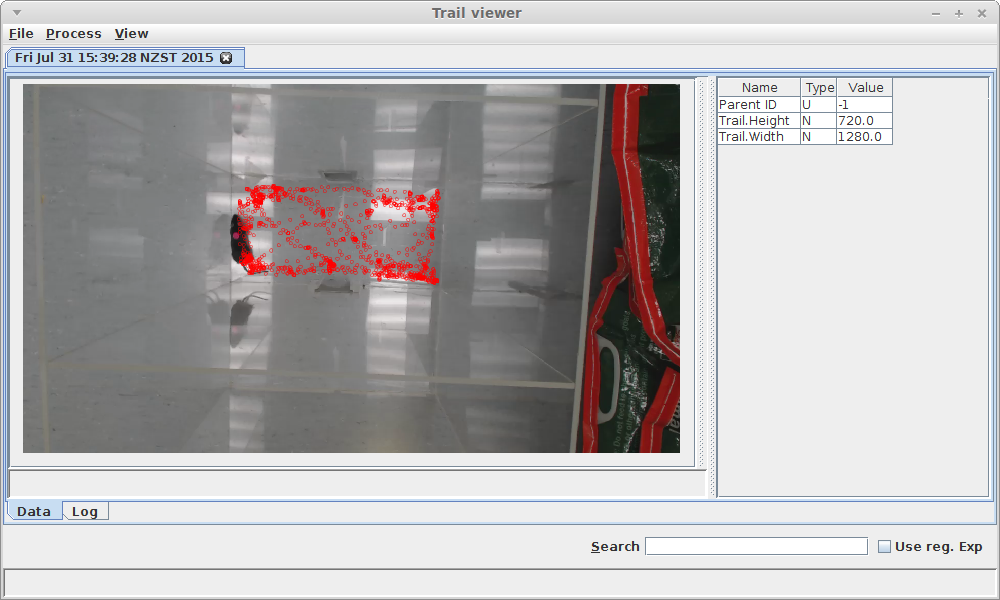
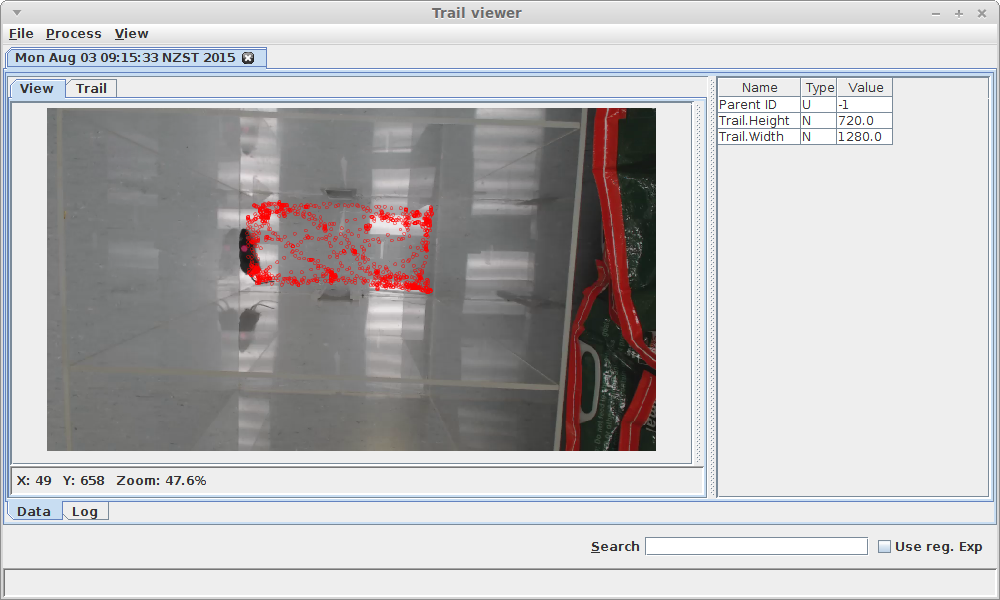
trail spreadsheet is now shown by default

Changed region(s): [[0.0, 0.06, 0.713, 0.84], [0.372, 0.6, 0.403, 0.63]]

diff --git a/adams-video/src/main/java/adams/gui/visualization/trail/TrailPanel.java b/adams-video/src/main/java/adams/gui/visualization/trail/TrailPanel.java
@@ -153,11 +153,11 @@ public class TrailPanel
       m_TabbedPane = new BaseTabbedPane();
       m_SplitPane.setLeftComponent(m_TabbedPane);
 
-      m_TabbedPane.addTab("Image", m_TrailImage);
+      m_TabbedPane.addTab("View", m_TrailImage);
 
       m_TrailTable = new SpreadSheetTable(new SpreadSheet());
       m_TrailTable.setNumDecimals(props.getInteger("SpreadSheet.NumDecimals", 3));
-      m_TabbedPane.addTab("Raw", new BaseScrollPane(m_TrailTable));
+      m_TabbedPane.addTab("Trail", new BaseScrollPane(m_TrailTable));
     }
     else {
       m_SplitPane.setLeftComponent(m_TrailImage);
